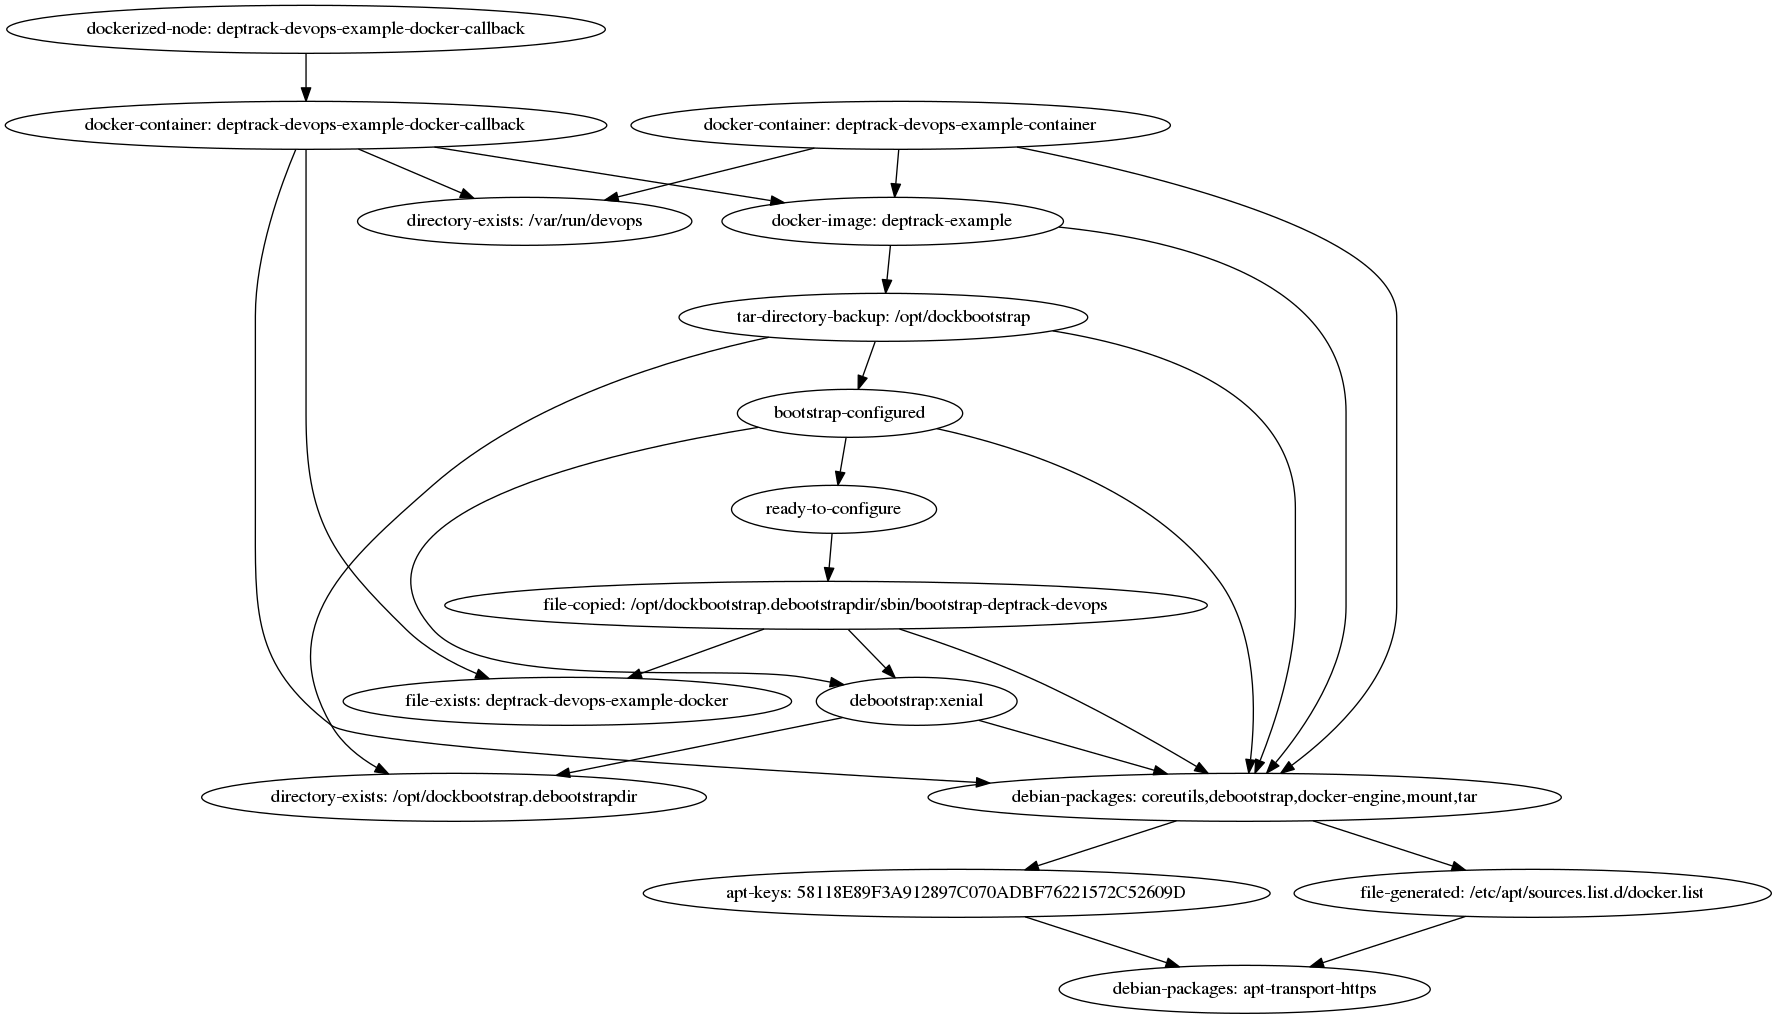
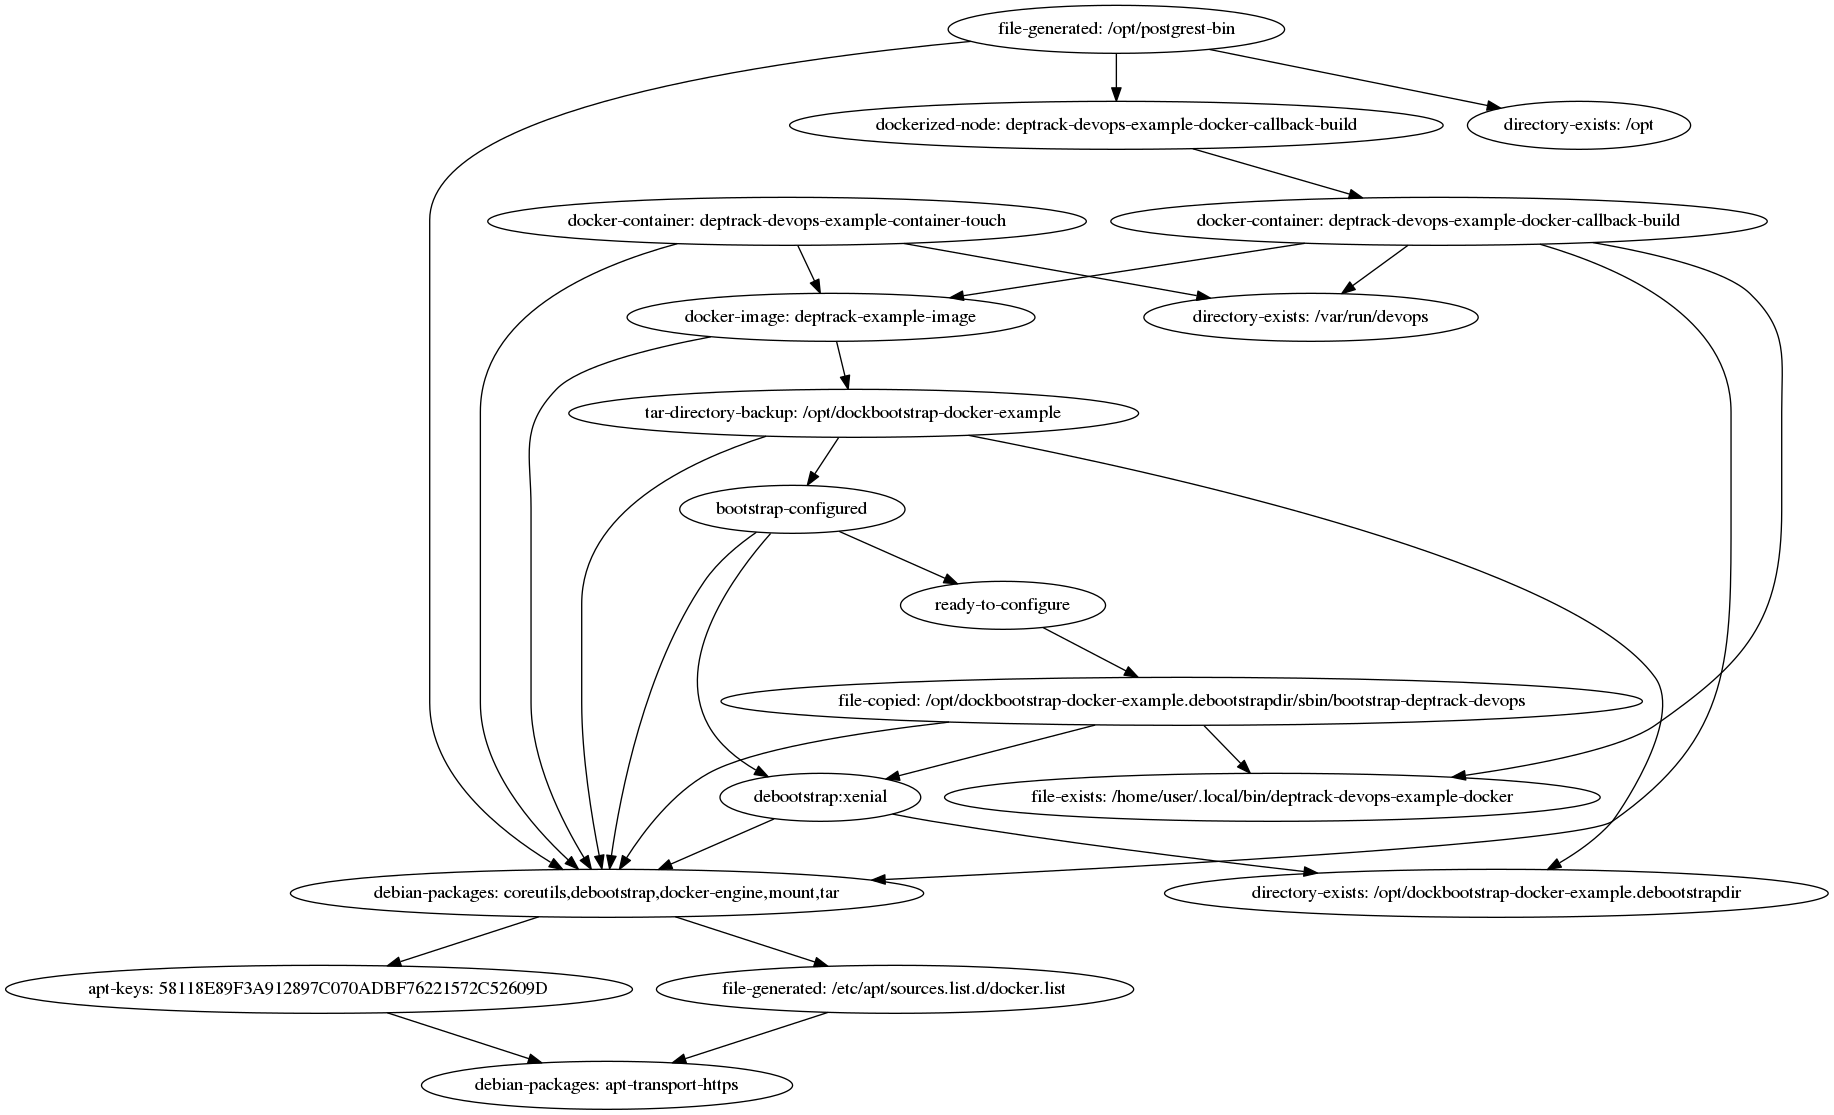
Update example for Docker.

diff --git a/deptrack-devops-examples/README.md b/deptrack-devops-examples/README.md
@@ -148,7 +148,7 @@ _docker-image_ with `docker import` from a debootstrapped environment. To
 customized the debootstrapped environment, we used a _chroot_ exactly like we
 did in the deptrack-devops-example-qemu example. On the other hand a pair of
 _docker-container_ nodes exist. Although they look similar they actually are
-not. The `deptrack-devops-example-container` container merely builds a
+not. The `deptrack-devops-example-container-touch` container merely builds a
 container which runs a `touch hello-world` in the containerized environment.
 This is possible because we _know_ that the debootstrap chroot has installed
 the `touch` command. Sometimes, we want to couple the content of the docker
@@ -157,15 +157,20 @@ there coule be things we want to turnup but that cannot be _installed_ during
 the chroot setup (such as a running daemon). We actually can callback more
 DepTrack-Devops nodes from within the Docker container as the command to run
 when starting the container. This callback technique is implemented as the
-`deptrack-devops-example-docker-callback` in the above example. One advantage
-here is that since we create the Docker image and container, we can `docker
-copy` a binary we know ahead of time and then call this binary. This callback
-setup is pretty oblivious to the type of nodes we need to turnup (say, a Nginx
-server or anthing you can express using DepTrack DevOps). As a result, we
-provide a `dockerize` function that turn-ups arbitrary serializable DevOps from
-within Docker containers. One key advantage of this technique is that GHC (the
-Haskell compiler) will know the type of the node running in the Docker
+`deptrack-devops-example-docker-callback-build` in the above example. One
+advantage here is that since we create the Docker image and container, we can
+`docker copy` a binary we know ahead of time and then call this binary. This
+callback setup is pretty oblivious to the type of nodes we need to turnup (say,
+a Nginx server or anthing you can express using DepTrack DevOps). As a result,
+we provide a `dockerize` function that turn-ups arbitrary serializable DevOps
+from within Docker containers. One key advantage of this technique is that GHC
+(the Haskell compiler) will know the type of the node running in the Docker
 container, which can let you build complex but type-checked infrastructures.
+In this example, we build the PostGrest binary in the Docker container (using
+the same code as in the deptrack-devops-example-postgrest example, but
+copy/pasted because we organized examples so that everything is the Main
+module) and we then copy the binary outside. One could build upon this example
+to then configure PostGreSQL locally.
 
 The serialization mechanism leverages
 ![https://github.com/tweag/distributed-closure](distributed-closure) and the
